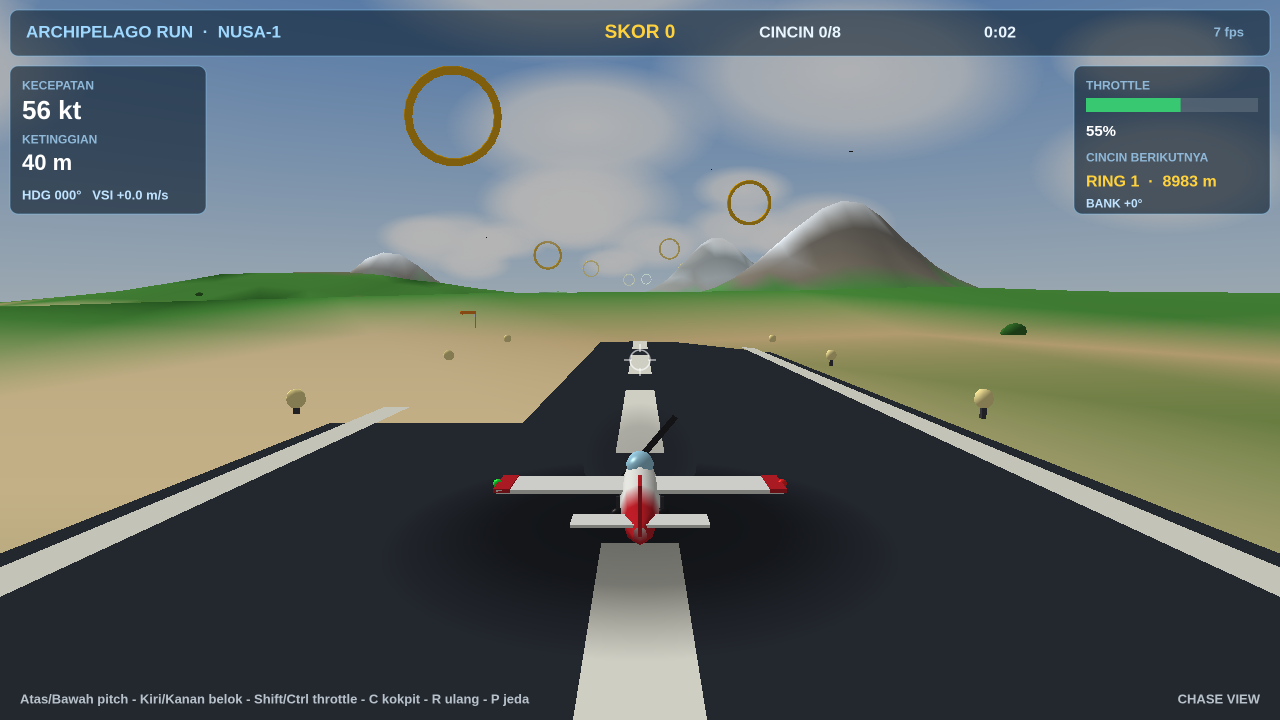
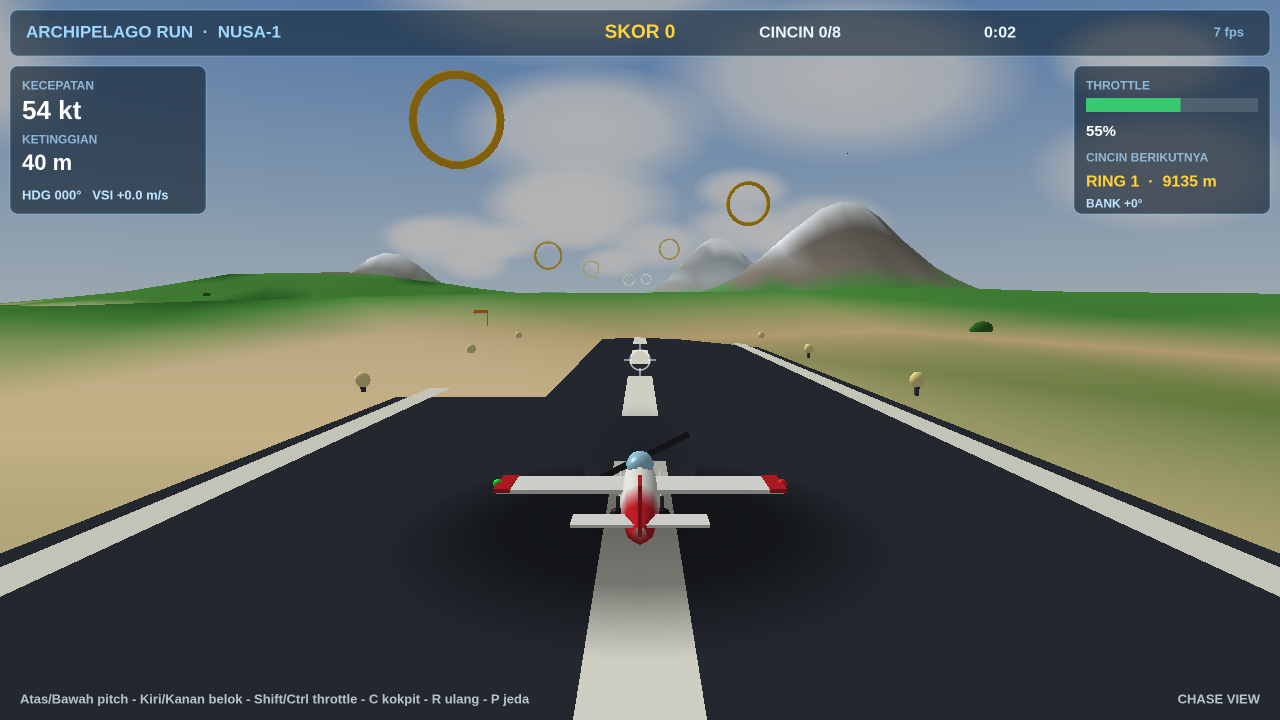
flight v2: reframe landing screenshot so the runway is not cut off
- Landing preset moved closer + slower (z 8550/speed 55 -> z 8530/
  speed 40, y 55): at screenshot time the plane is just short of the
  threshold, so the whole strip — threshold to far end — is in frame
  with the airport, instead of the near asphalt being sliced by the
  bottom edge (the plane used to fly past the threshold during the
  3.5 s screenshot wait)

diff --git a/game/index.html b/game/index.html
@@ -1325,7 +1325,7 @@ addEventListener('mousemove',e=>{mouseX=e.clientX/innerWidth;mouseActive=perform
 const scene=qs.get('scene');
 if(scene==='takeoff'){S.started=true;S.throttle=0.55;S.speed=28;}
 else if(scene==='ring'){S.started=true;S.mode='flying';S.x=380;S.y=230;S.z=2700;S.heading=0.2;S.pitch=-0.02;S.speed=70;S.throttle=0.7;S.nextRing=2;S.rings=2;S.score=200;}
-else if(scene==='landing'){S.started=true;S.mode='flying';S.x=0;S.y=55;S.z=8550;S.speed=55;S.throttle=0.3;S.pitch=-0.06;S.nextRing=8;}
+else if(scene==='landing'){S.started=true;S.mode='flying';S.x=0;S.y=55;S.z=8530;S.speed=40;S.throttle=0.3;S.pitch=-0.06;S.nextRing=8;}
 else if(scene==='cockpit'){S.started=true;S.view='cockpit';S.throttle=0.6;S.speed=30;}
 
 // ---------- main loop ----------
